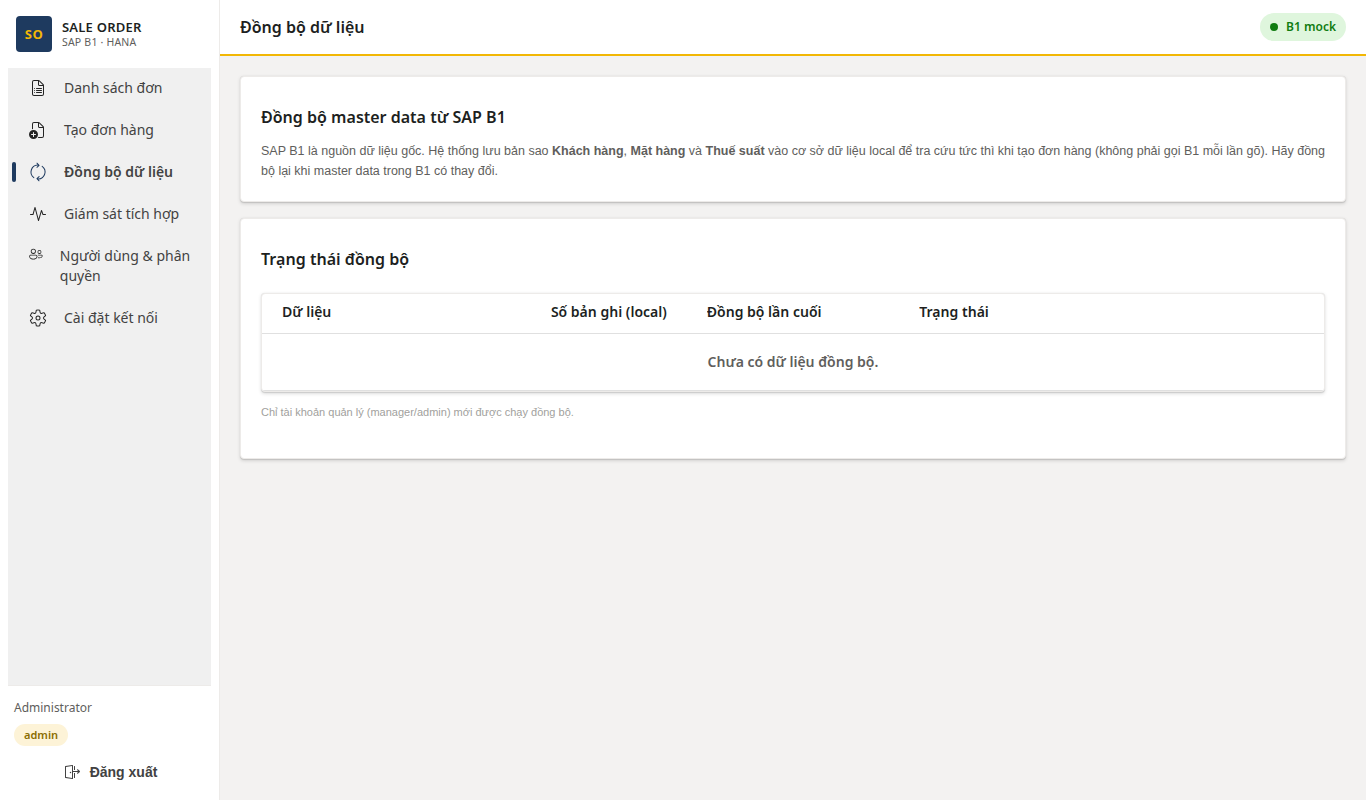
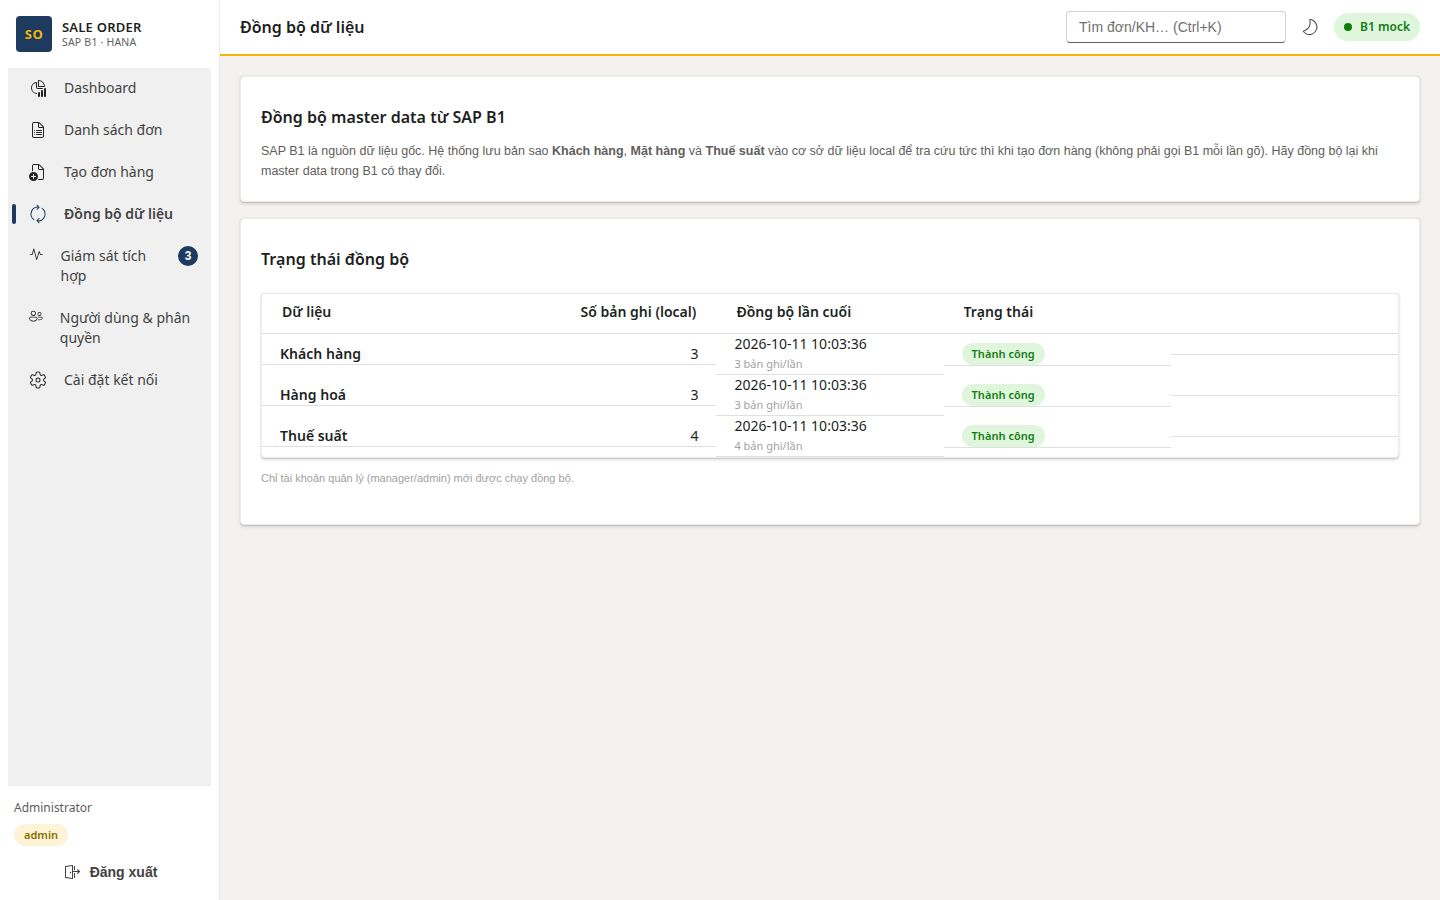
Tài liệu + ảnh v2.3: AD-14→AD-17, endpoint sync job, phụ lục QA security; ảnh dashboard (scope note, dark mode), sync page; fix dark mode tokens, blazor-error-ui CSS, SyncPage DTO

diff --git a/SalesWeb.Client/wwwroot/css/app.css b/SalesWeb.Client/wwwroot/css/app.css
@@ -503,3 +503,30 @@ body[data-theme="dark"] .fm-kpi__value--danger { color: #f08060; }
 .fm-chart-bar--empty { fill: #e0e0e0; }
 body[data-theme="dark"] .fm-chart-bar { fill: #7ba7d9; }
 body[data-theme="dark"] .fm-chart-bar--empty { fill: #3b3a39; }
+
+/* ===== Dark mode: semantic text/surface tokens ===== */
+body[data-theme="dark"] {
+  --fm-text: #f5f5f5;
+  --fm-text-2: #d2d0ce;
+  --fm-text-3: #a19f9d;
+  --fm-surface: #252423;
+  --fm-line: #3b3a39;
+  --fm-cream: #1b1a19;
+}
+body[data-theme="dark"] .fm-table th { background: #2d2c2b; color: #f5f5f5; }
+body[data-theme="dark"] .fm-table td { color: #f5f5f5; border-color: #3b3a39; }
+body[data-theme="dark"] .fm-table tr:hover td { background: #2d2c2b; }
+
+/* ===== Blazor error UI (mặc định template, bị thiếu) ===== */
+#blazor-error-ui {
+  display: none;
+  position: fixed;
+  left: 0; right: 0; bottom: 0;
+  z-index: 1000;
+  padding: 0.6rem 1.25rem 0.7rem 1.25rem;
+  background: #fff4ce;
+  color: #201f1e;
+  box-shadow: 0 -1px 2px rgba(0,0,0,.2);
+}
+#blazor-error-ui .dismiss { cursor: pointer; position: absolute; right: 0.75rem; top: 0.5rem; }
+body[data-theme="dark"] #blazor-error-ui { background: #4a3b00; color: #f5f5f5; }

diff --git a/SalesWeb.Client/Services/ApiClient.cs b/SalesWeb.Client/Services/ApiClient.cs
@@ -257,8 +257,8 @@ public class ApiClient(HttpClient http, TokenStore tokens)
             $"api/masterdata/customers/{Uri.EscapeDataString(cardCode)}/contacts");
 
     // ---------------- Sync ----------------
-    public Task<List<SyncEntityStatus>?> GetSyncStatusAsync()
-        => SendAsync<List<SyncEntityStatus>>(HttpMethod.Get, "api/sync/status");
+    public Task<SyncStatusOut?> GetSyncStatusAsync()
+        => SendAsync<SyncStatusOut>(HttpMethod.Get, "api/sync/status");
 
     public Task<SyncStartOut?> TriggerSyncAsync(List<string> entities)
         => SendAsync<SyncStartOut>(HttpMethod.Post, "api/sync", new { entities });

diff --git a/README.md b/README.md
@@ -50,10 +50,11 @@ docker compose up -d --build   # http://localhost:8080
 - Audit mọi thao tác Service Layer + retry thông minh (`/audit`)
 - Auth JWT + RBAC 4 cấp: viewer < sales < manager < admin
 - Cài đặt kết nối B1 runtime (mật khẩu mã hóa AES-GCM), quản lý user
+- **Bảo mật v2.3**: sales bắt buộc có mã NVKD (thiếu → 403), server ghi đè mã NVKD khi tạo đơn, sync status/job theo CompanyDB, fail-fast toàn bộ cấu hình B1 khi chạy live
 
 ## Màn hình
 
-### Dashboard (v2.2)
+### Dashboard (v2.2, cập nhật v2.3)
 ![Dashboard](docs/screenshots/dashboard.png)
 
 ### Dashboard — chế độ tối (v2.2)
@@ -99,7 +100,7 @@ SalesWeb.Client/   Blazor WebAssembly + FluentBlazor (8 trang)
 
 ## Tài liệu kỹ thuật
 
-- [Thiết kế giải pháp chi tiết](docs/thiet-ke-giai-phap.md) — kiến trúc, tích hợp Service Layer, chiết khấu, đa database, cache client, icon, v2.2 (dashboard, refresh token, rate limit, backup, dark mode)
+- [Thiết kế giải pháp chi tiết](docs/thiet-ke-giai-phap.md) — kiến trúc, tích hợp Service Layer, chiết khấu, đa database, cache client, icon, v2.2 (dashboard, refresh token, rate limit, backup, dark mode), v2.3 (AD-14→AD-17: fail-closed sales, sync theo tenant, fail-fast B1 live)
 - [API payload chi tiết](docs/api-payload-chi-tiet.md) — endpoint, request/response từng API (kể cả `auth/refresh`, `orders/stats`, `orders/export`)
 - [Màn hình — Sự kiện — API](docs/man-hinh-su-kien-api.md) — chi tiết từng màn hình và sự kiện (kể cả Dashboard, tab audit người dùng)
-- [Báo cáo QA UI/UX](docs/bao-cao-qa-ui-ux.md) — kết quả kiểm thử giao diện (v2.0 + phụ lục QA v2.2)
+- [Báo cáo QA UI/UX](docs/bao-cao-qa-ui-ux.md) — kết quả kiểm thử giao diện (v2.0 + phụ lục QA v2.2 + phụ lục QA v2.3 security review)

diff --git a/docs/thiet-ke-giai-phap.md b/docs/thiet-ke-giai-phap.md
@@ -109,6 +109,10 @@ Controllers giữ nguyên DI `IB1Client`, không cần sửa khi thêm database 
 | AD-11 | Rate limiting (v2.2) | Dùng sẵn `Microsoft.AspNetCore.RateLimiting`: 300 req/phút chung, login 10/phút chống dò mật khẩu | Không giới hạn — dễ bị spam/brute-force |
 | AD-12 | Backup SQLite tự động (v2.2) | `BackgroundService` + `VACUUM INTO` mỗi 24h, giữ 7 bản — backup nhất quán ngay cả khi DB đang mở | Copy file thủ công (rủi ro DB đang ghi) |
 | AD-13 | Dashboard vẽ bằng SVG thuần (v2.2) | Không thêm dependency chart; đủ cho KPI + bar chart + top lists | Thêm Chart.js/ECharts (nặng, phức tạp hơn) |
+| AD-14 | Fail-closed authorization sales (v2.3) | NVKD **bắt buộc** có `SalesPersonCode`; thiếu mã → 403 trên list/get/patch/export; server luôn ghi đè `SalesPersonCode` bằng mã của user khi tạo đơn (P0-1/P0-2) | Fail-open: sales chưa map mã được xem toàn bộ đơn |
+| AD-15 | Sync status/job theo tenant (v2.3) | `md_sync_log` có `company_db`; `SyncStatus()`/`IsRunning()` lọc theo DB; `GET /api/sync/job/{id}` chỉ trả job cùng CompanyDB (khác → 404); SyncPage poll đúng job của mình qua JobId (M1/M2) | Status global — user DB A thấy dữ liệu DB B |
+| AD-16 | Fail-fast toàn bộ B1 live settings (v2.3) | Khi `B1_MOCK=false`: chặn JWT demo, admin password mặc định, B1 password placeholder, URL chứa `your-b1-server`/không hợp lệ, thiếu CompanyDB/username; `B1_VERIFY_SSL=false` cần Development hoặc `B1_ALLOW_INSECURE_SSL=1` (M3) | Chỉ validate JWT + admin password |
+| AD-17 | Dashboard TopItems bounded concurrency (v2.3) | Khi list B1 không có `DocumentLines`: fetch detail 50 đơn giá trị cao nhất, tối đa 5 song song, timeout 30s (M5) | Fetch tuần tự — chậm 50× round-trip |
 
 ---
 

diff --git a/docs/man-hinh-su-kien-api.md b/docs/man-hinh-su-kien-api.md
@@ -200,14 +200,15 @@ hủy đơn, đóng dòng.
 |---|---|---|
 | 5.1 | Mở trang (`OnInitializedAsync` → `Load`) | Gọi API trạng thái đồng bộ |
 | 5.2 | Chọn entity cần đồng bộ (checkbox: customers, items, tax_codes...) | bind danh sách `entities` |
-| 5.3 | Bấm "Đồng bộ" (`Start`) | Gọi API trigger sync, hiển thị tiến trình |
+| 5.3 | Bấm "Đồng bộ" (`Start`) | Gọi API trigger sync → nhận `job_id`, poll `GET /api/sync/job/{job_id}` mỗi 2s cho đúng job của tenant; khi done/error thì tải lại status và xoá cache master data |
 
 **API:**
 
 | Method | Endpoint | Body | Kết quả |
 |---|---|---|---|
-| GET | `/api/sync/status` | — | `[{"entity","last_sync","count",...}]` |
-| POST | `/api/sync` | `{"entities":["customers","items","tax_codes"]}` | `{"ok":true,"synced":{...}}` |
+| GET | `/api/sync/status` | — | `[{"entity","last_sync","count",...}]` — **v2.3:** lọc theo CompanyDB |
+| POST | `/api/sync` | `{"entities":["customers","items","tax_codes"]}` | `{"started":true,"job_id":"...","message":"..."}` — **v2.3:** thêm job_id |
+| GET | `/api/sync/job/{jobId}` | — | `{"job_id","status":"running\|done\|error","total_records","error",...}` — **v2.3** |
 
 **Phân quyền:** yêu cầu vai trò `manager` trở lên.
 

diff --git a/docs/api-payload-chi-tiet.md b/docs/api-payload-chi-tiet.md
@@ -238,10 +238,15 @@ Response `200` — file `application/vnd.openxmlformats-officedocument.spreadshe
 ## 4. Đồng bộ & giám sát
 
 ### GET /api/sync/status — Trạng thái đồng bộ
-**Quyền:** manager+. Response: `[{ "entity": "customers", "label": "Khách hàng", "count": 1250, "last_finished_at": "...", ... }]`
+**Quyền:** viewer+. **v2.3:** lọc theo `CompanyDB` của user hiện tại (count, last sync, running của đúng DB). Response: `[{ "entity": "customers", "label": "Khách hàng", "count": 1250, "last_finished_at": "...", ... }]`
 
 ### POST /api/sync — Trigger đồng bộ
 **Quyền:** manager+. **Request:** `{ "entities": ["customers", "items", "tax_codes"] }`
+**v2.3:** response thêm `job_id`; job được theo dõi theo tenant.
+
+### GET /api/sync/job/{jobId} — Trạng thái job (v2.3)
+**Quyền:** viewer+. Chỉ trả job thuộc `CompanyDB` của user (khác DB → 404).
+**Response:** `{ "job_id": "...", "status": "running|done|error", "started_by": "...", "started_at": "...", "finished_at": "...", "total_records": 0, "error": "", "entities": [...] }`
 
 ### GET /api/audit — Nhật ký Service Layer
 **Quyền:** sales+. **Query:** `operation`, `status`, `q`, `limit`.

diff --git a/docs/bao-cao-qa-ui-ux.md b/docs/bao-cao-qa-ui-ux.md
@@ -93,3 +93,20 @@ Issue đã sửa trong đợt QA:
 - Tab audit không đổi nội dung → chuyển sang `@bind-ActiveTabId` + `StateHasChanged()` sau load.
 
 Build: `dotnet build` 0 lỗi.
+
+---
+
+## Phụ lục QA v2.3 — Security review (round 2)
+
+| # | Test case | Kết quả |
+|---|---|---|
+| S1 | Sales không có `SalesPersonCode` gọi GET list/detail/PATCH/export | ✅ 403 "Tài khoản chưa được gán nhân viên kinh doanh" |
+| S2 | Sales có mã 99 tạo đơn với `SalesPersonCode=77` (giả mạo) | ✅ Server ghi đè → đơn có mã 99 |
+| S3 | Sales mã 99 xem đơn mã 1 | ✅ 403 "Bạn chỉ được thao tác đơn hàng của mình" |
+| S4 | Sync status theo CompanyDB | ✅ Count/log/running lọc theo DB |
+| S5 | Job status khác CompanyDB | ✅ 404 (không lộ tồn tại) |
+| S6 | `B1_MOCK=false` thiếu JWT secret | ✅ Fail-fast rõ ràng |
+| S7 | Dashboard scope note | ✅ "Số liệu toàn bộ đơn hàng" / "Số liệu trong 1.000 đơn gần nhất" |
+| S8 | Dark mode KPI colors | ✅ CSS class semantic, có biến thể dark |
+
+Build: `dotnet build` 0 lỗi. User test đã xóa khỏi DB sau QA.
